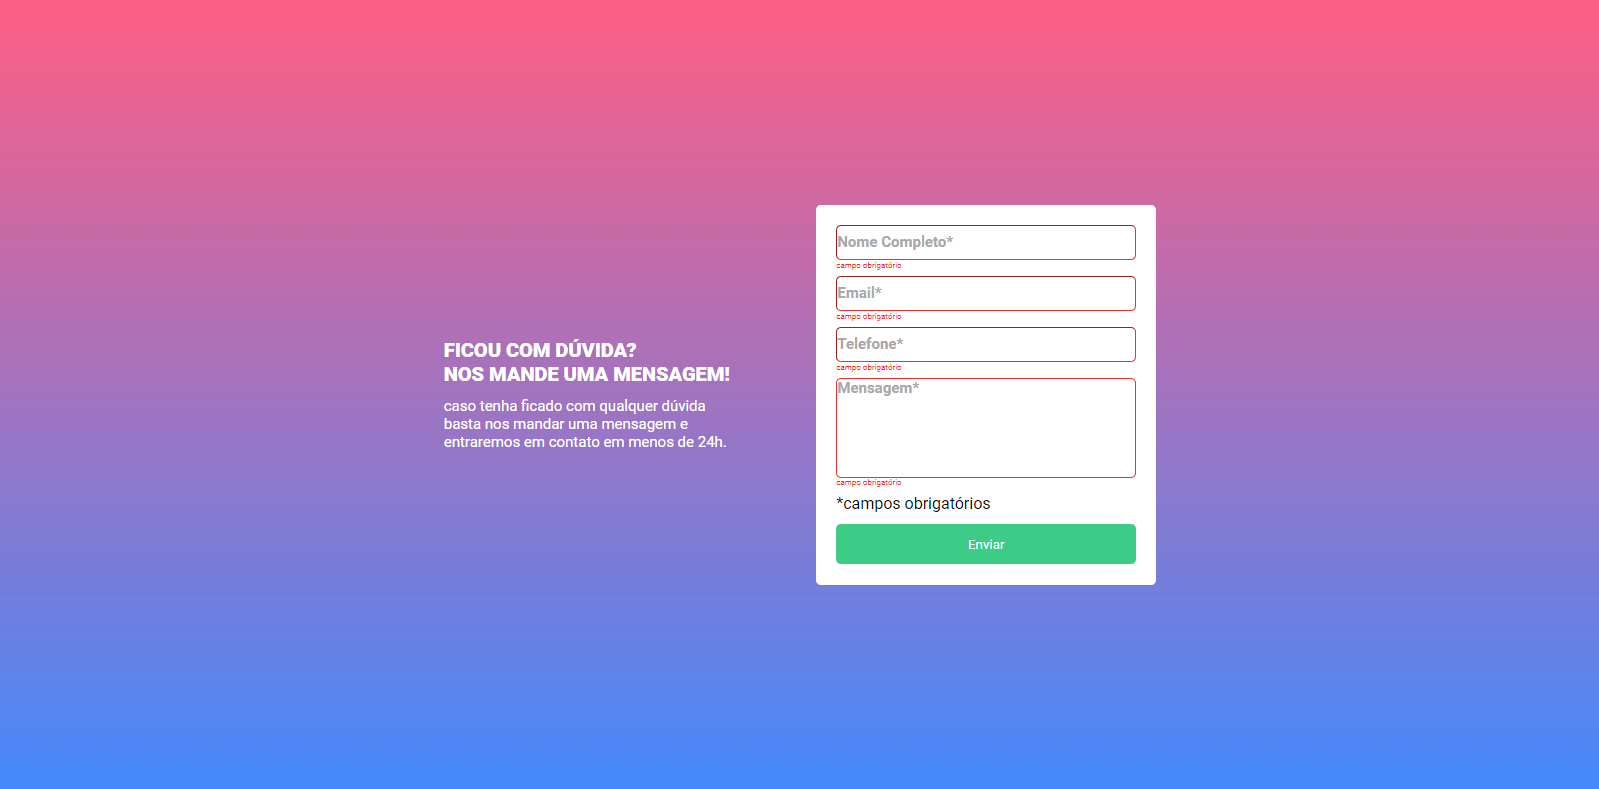
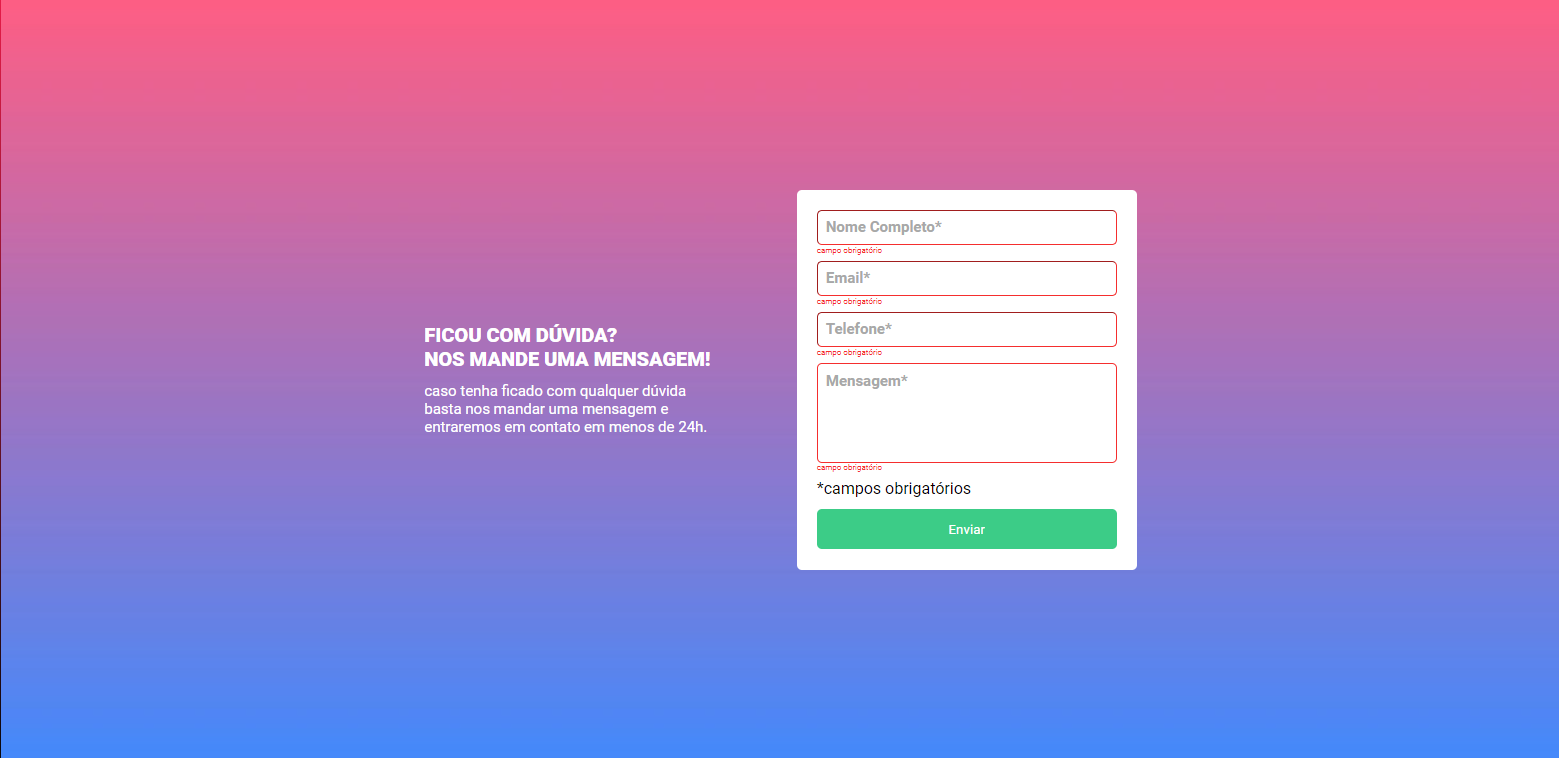
added padding to the input text

Changed region(s): [[0.4926, 0.2427, 0.7389, 0.7586], [0.2771, 0.4248, 0.4618, 0.5765]]

diff --git a/src/css/style.css b/src/css/style.css
@@ -44,6 +44,7 @@ main {
     border-radius: 5px;
     border-width: 1px;
     margin-top: 15px;
+    padding: 8px;
 }
 
 .formulario .user-question {
@@ -52,6 +53,7 @@ main {
     resize: none;
     border-radius: 5px;
     margin-top: 15px;
+    padding: 8px;
 }
 
 .formulario p {
@@ -66,14 +68,12 @@ main {
     border-radius: 5px;
     border: none;
     height: 40px;
-
 }
 
 ::placeholder {
     color: #A8A8A8;
     font-size: 15px;
     font-weight: 700;
-    padding: 8px;
 }
 
 .validation-message{
